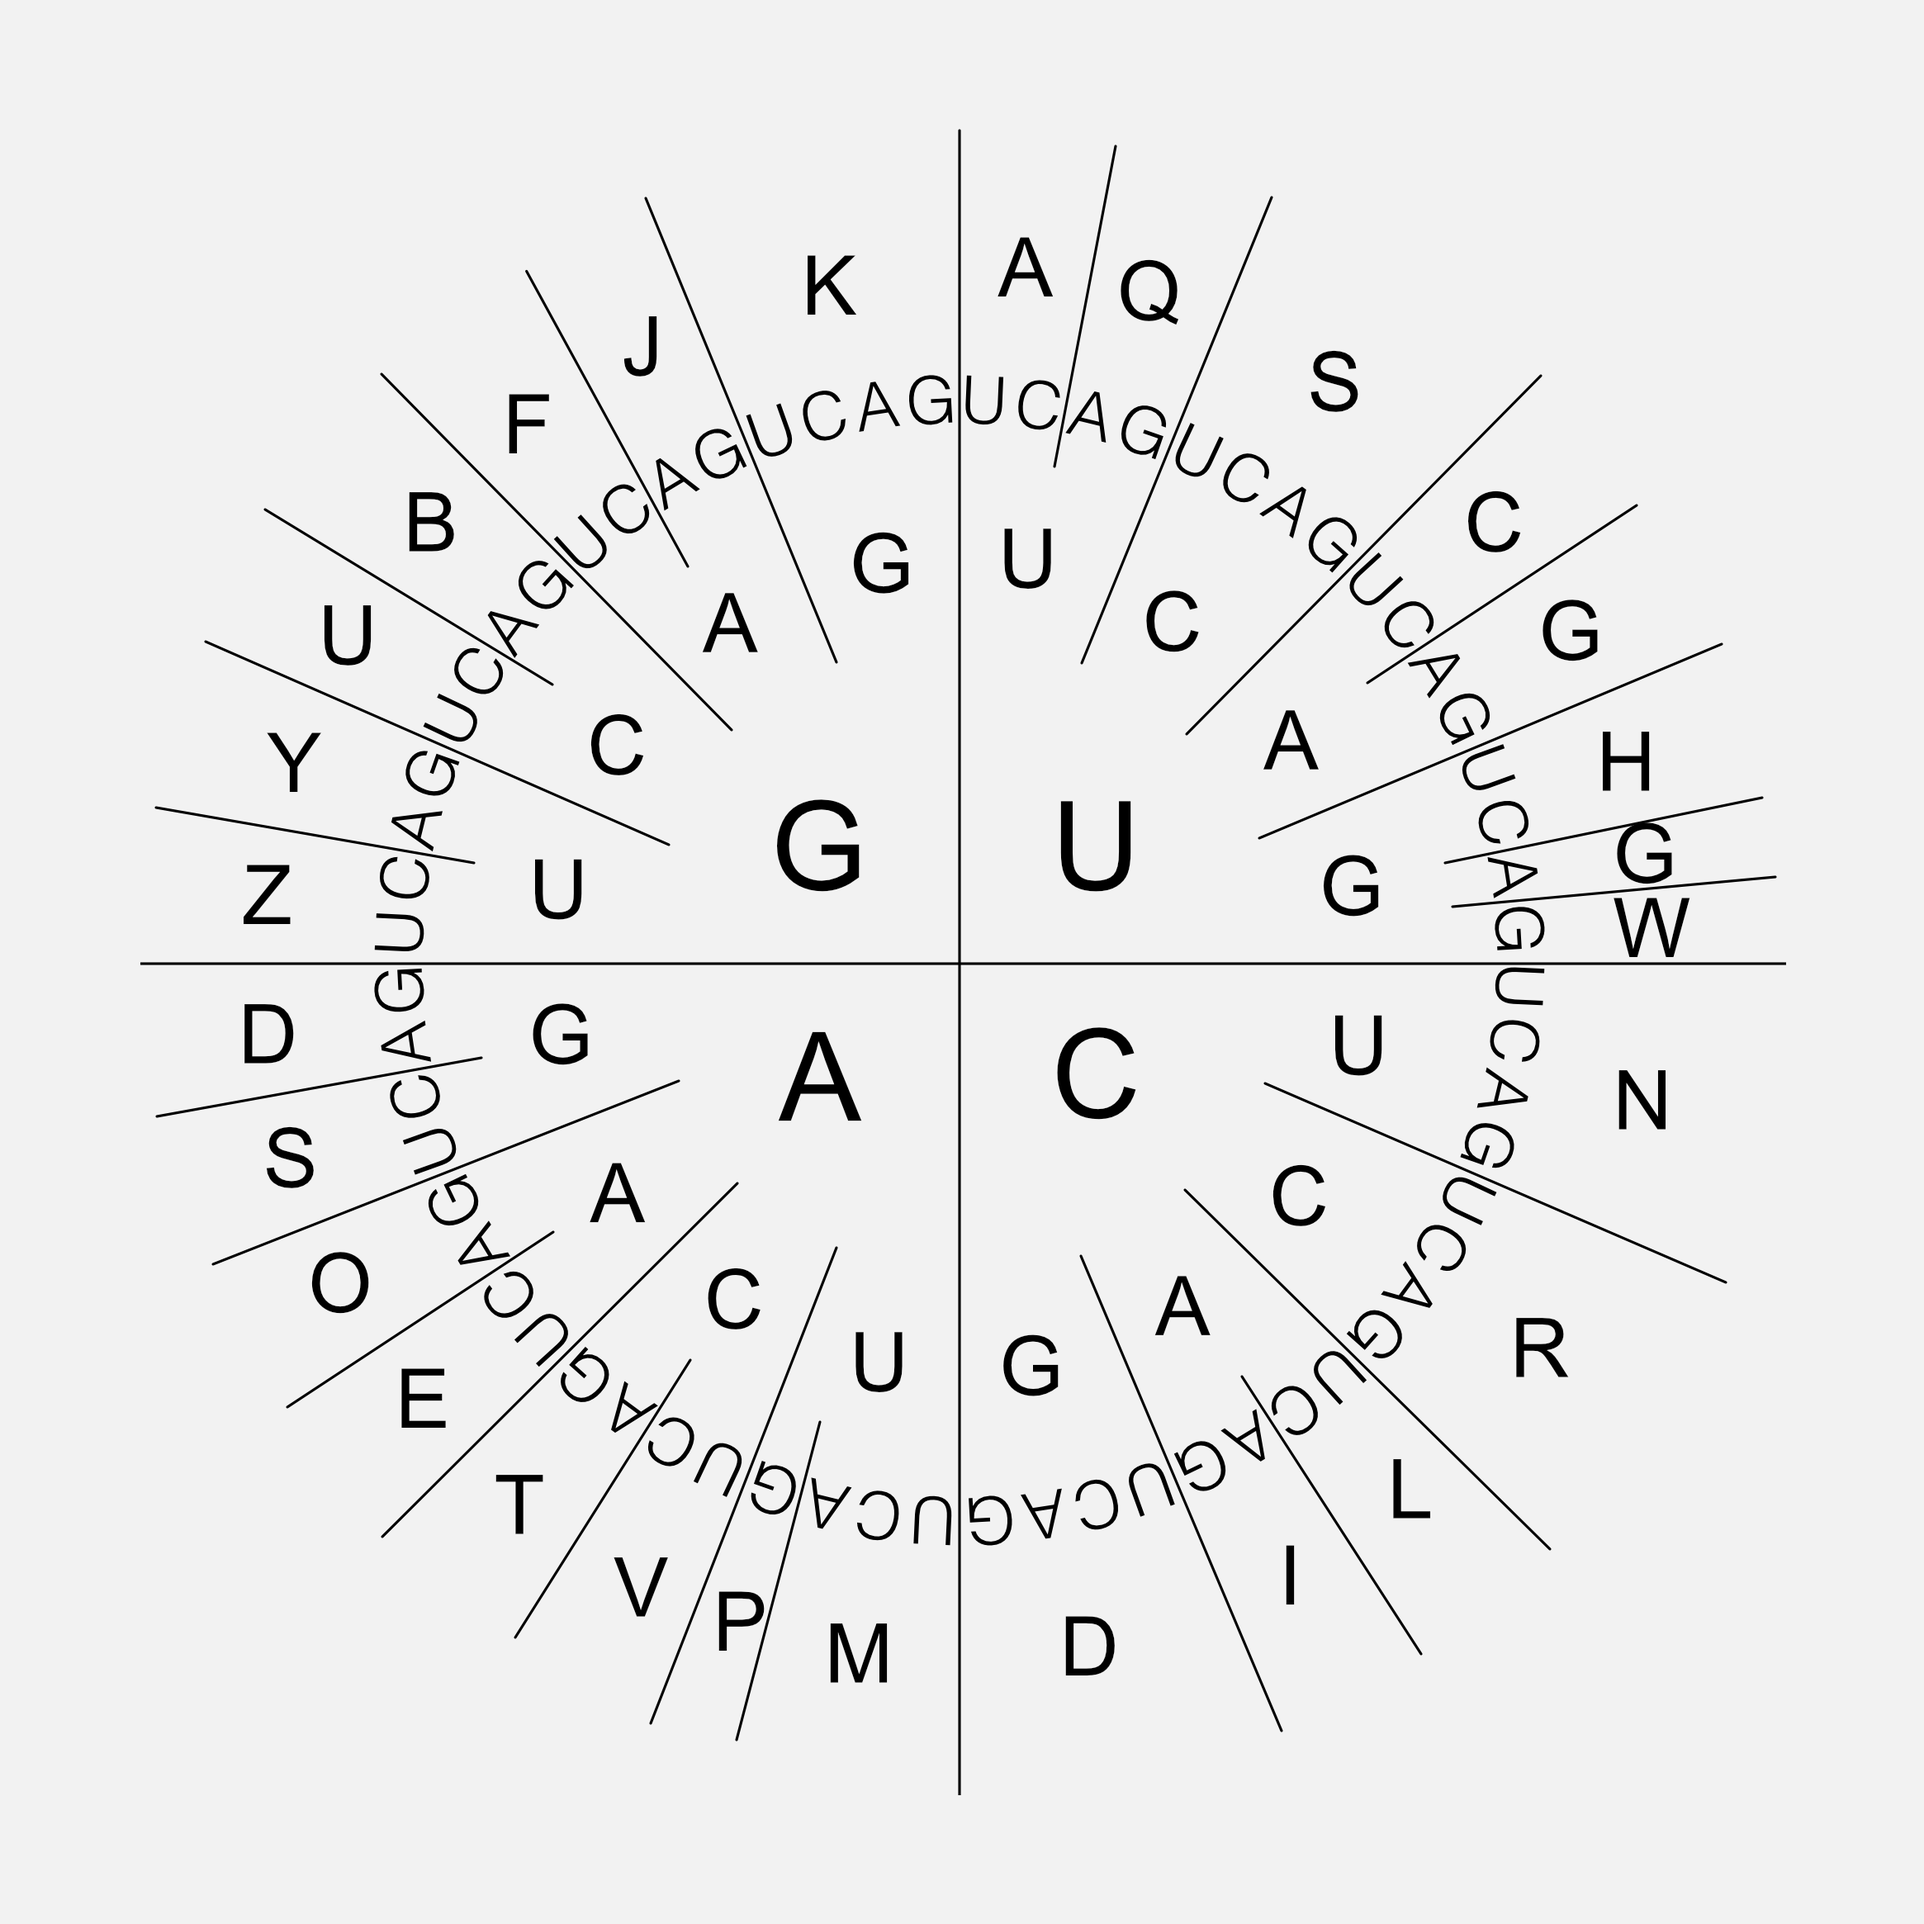
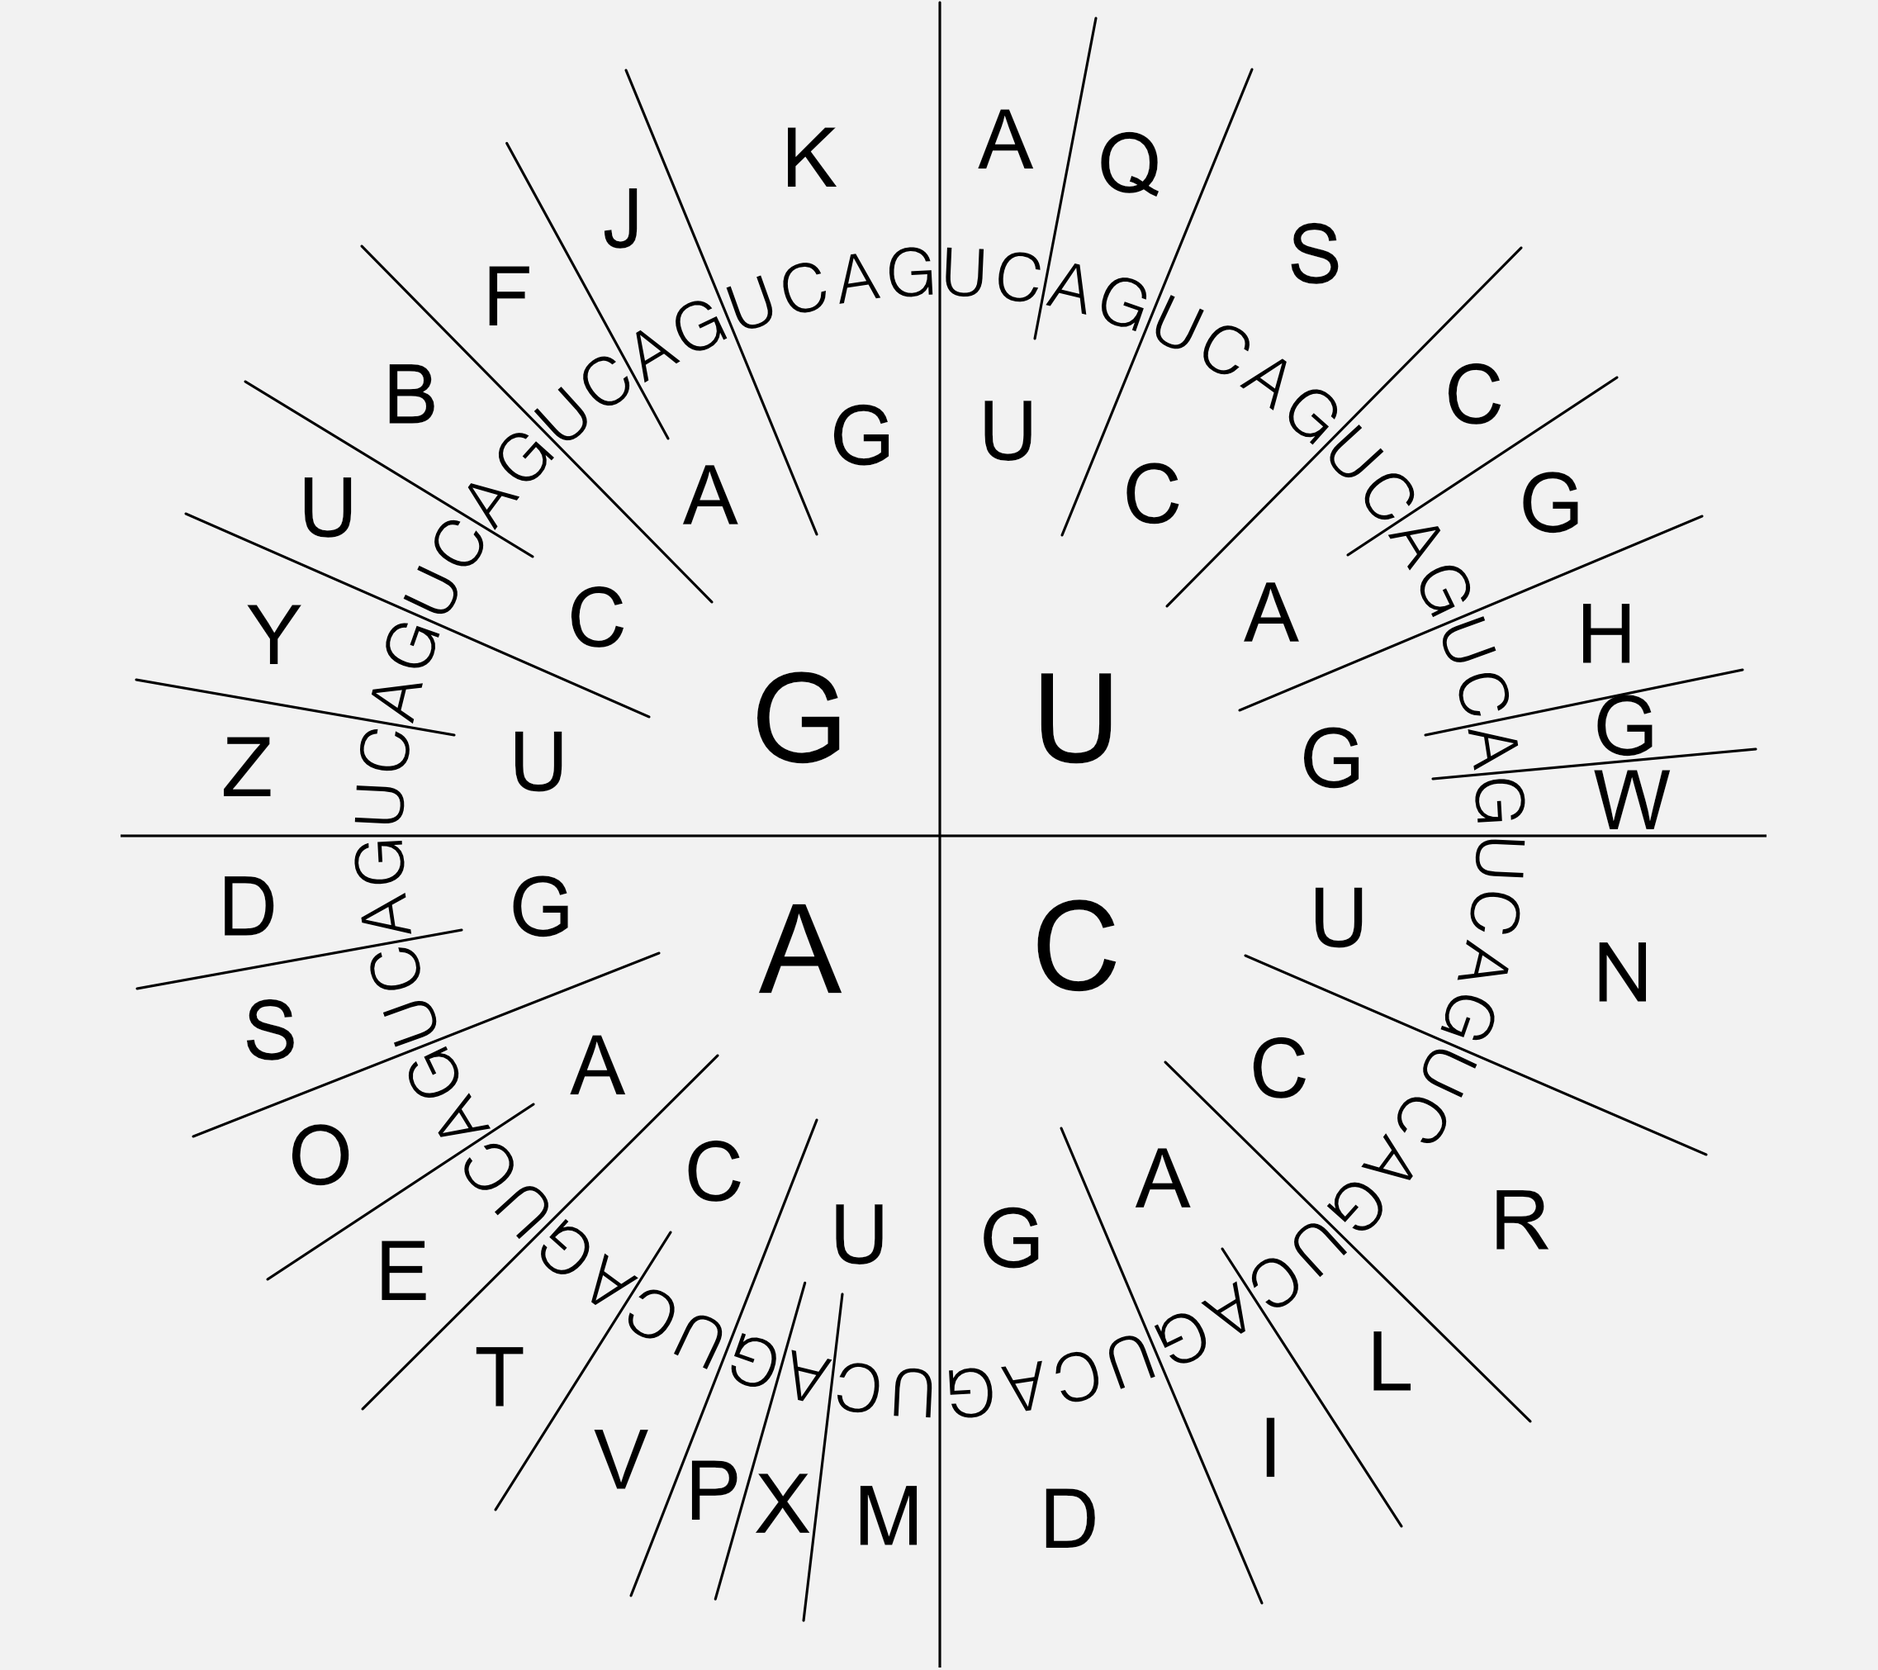
Added more tests, needs polygenetic support

diff --git a/BioKodeTests/BioKodeTests.swift b/BioKodeTests/BioKodeTests.swift
@@ -36,7 +36,73 @@ class BioKodeTests: XCTestCase {
 		// Verify sequences
 		XCTAssertEqual(expectedOutput, actualOutput)
 	}
-    
+	
+	func testmRNAtoDNA() {
+		let givenInput     = ["UGA", "UCG", "AGG", "AGC", "GAC", "GAA", "GAU", "CGC", "CGU", "CAG"]
+		let expectedOutput = ["ACT", "AGC", "TCC", "TCG", "CTG", "CTT", "CTA", "GCG", "GCA", "GTC"]
+		var actualOutput   = [String]()
+		
+		// Calculate sequences
+		for sequence in givenInput {
+			actualOutput.append(bioTrans.frommRNAtoDNA(sequence))
+		}
+		
+		// Verify sequences
+		XCTAssertEqual(expectedOutput, actualOutput)
+	}
+	
+	func testDNAtoEnglish() {
+		let givenInput     = "GATAAAGTCGTGTACTTTGTGGTCTCGACG"
+		let expectedOutput = "NAILPOLISH"
+		let actualOutput   = bioTrans.fromDNAtoEnglish(givenInput)
+		
+		// Verify sequences
+		XCTAssertEqual(expectedOutput, actualOutput)
+	}
+	
+	func testmRNAtoEnglish() {
+		let givenInput     = "UAUAAAAAAGGGCAAAAU"
+		let expectedOutput = "COOKIE"
+		let actualOutput   = bioTrans.frommRNAtoEnglish(givenInput)
+		
+		// Verify sequences
+		XCTAssertEqual(expectedOutput, actualOutput)
+	}
+	
+	// FIX test to accomodate for polygenetic selection
+	func testEnglishtomRNA() {
+		let givenInput     = "THEQUICKBROWNFOXJUMPEDOVERTHELAZYDOG"
+		let expectedOutput = ("ACA UGU AAU UUA GCU CAA UAU GGU GCA CCU AAA UGG CUU GAU AAA AUA GAA GCU AUU AUG AAU AGA AAA ACU AAU CCU ACA UGU AAU CAU UUU GUU GUA AGA AAA UAA").stringByReplacingOccurrencesOfString(" ", withString: "")
+		let actualOutput   = bioTrans.fromEnglishtomRNA(givenInput)
+		let polyGen = NSUserDefaults.standardUserDefaults().valueForKey("polygeneticSelection")
+		
+		// Explicitly sets polygenetic selection to false
+		NSUserDefaults.standardUserDefaults().setValue(1, forKey: "polygeneticSelection")
+		print(expectedOutput)
+		print(actualOutput)
+		XCTAssertEqual(expectedOutput, actualOutput)
+		
+		// Resets polygenetic selection to user defaults
+		NSUserDefaults.standardUserDefaults().setValue(polyGen, forKey: "polygeneticSelection")
+	}
+	
+	func testEnglishtomDNA() {
+		let givenInput     = "GROUPSELFIEWITHATEACHER"
+		let expectedOutput = ("ATTGGGTTTCGATACTCGTTGGTGCTGGTTTTGACCGTTTGTACAAAATGCTTAAAAATGACGTTAGGG").stringByReplacingOccurrencesOfString(" ", withString: "")
+		let actualOutput   = bioTrans.fromEnglishtoDNA(givenInput)
+		let polyGen = NSUserDefaults.standardUserDefaults().valueForKey("polygeneticSelection")
+		
+		// Explicitly sets polygenetic selection to false
+		NSUserDefaults.standardUserDefaults().setValue(1, forKey: "polygeneticSelection")
+		print(expectedOutput)
+		print(actualOutput)
+		XCTAssertEqual(expectedOutput, actualOutput)
+		
+		// Resets polygenetic selection to user defaults
+		NSUserDefaults.standardUserDefaults().setValue(polyGen, forKey: "polygeneticSelection")
+	}
+	
+
     func testPerformanceExample() {
         // This is an example of a performance test case.
         self.measureBlock {

diff --git a/BioKode/Models/BioTranslate.swift b/BioKode/Models/BioTranslate.swift
@@ -13,7 +13,7 @@ class BioTranslate {
 	let englishTomRNADictionary: [Character: [String]] =
 		["A": ["UUU", "UAC"],
 		 "Q": ["UUA", "UUG"],
-		 "S": ["UCU", "UCC", "UCA", "UCG", "AGU", "ACG"],
+		 "S": ["UCU", "UCC", "UCA", "UCG", "AGU", "AGC"],
 		 "C": ["UAU", "UAC"],
 		 "G": ["UAA", "UAG", "UGA"],
 		 "H": ["UGU", "UGC"],
@@ -22,8 +22,9 @@ class BioTranslate {
 		 "R": ["CCU", "CCC", "CCA", "CCG"],
 		 "L": ["CAU", "CAC"],
 		 "I": ["CAA", "CAG"],
-		 "D": ["CGU", "CGC", "CGA", "CGG", "AGA", "AGG"],
-		 "M": ["AUU", "AUC", "AUA"],
+		 "D": ["AGA", "AGG", "CGU", "CGC", "CGA", "CGG"],
+		 "M": ["AUU", "AUC"],
+		 "X": ["AUA"],
 		 "P": ["AUG"],
 		 "V": ["ACU", "ACC"],
 		 "T": ["ACA", "ACG"],
@@ -112,6 +113,7 @@ class BioTranslate {
 		// Credit: http://stackoverflow.com/a/36854223/1431900
 		// Reverse-map the codon (as a value) from the englishTomRNADictionary to the key (corresponding English letter), and append the key to the outputString
 		for codon in preEnglish {
+			print(codon)
 			let english = englishTomRNADictionary.filter { $0.1.contains(codon) }.first!.0
 			outputString.append(english)
 		}
